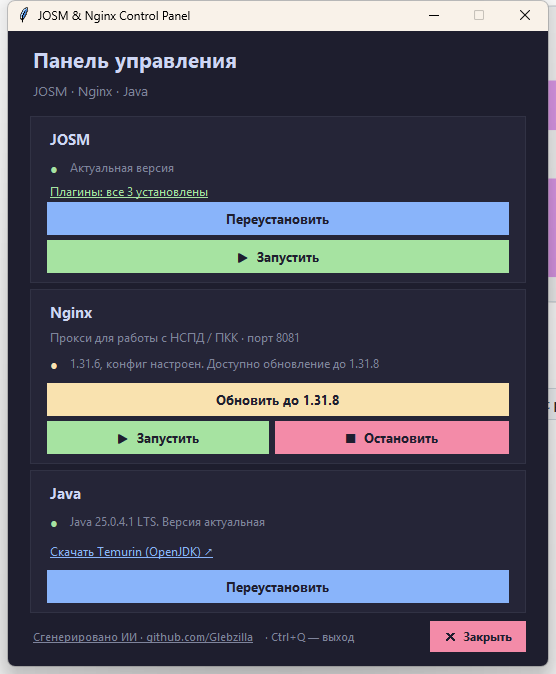
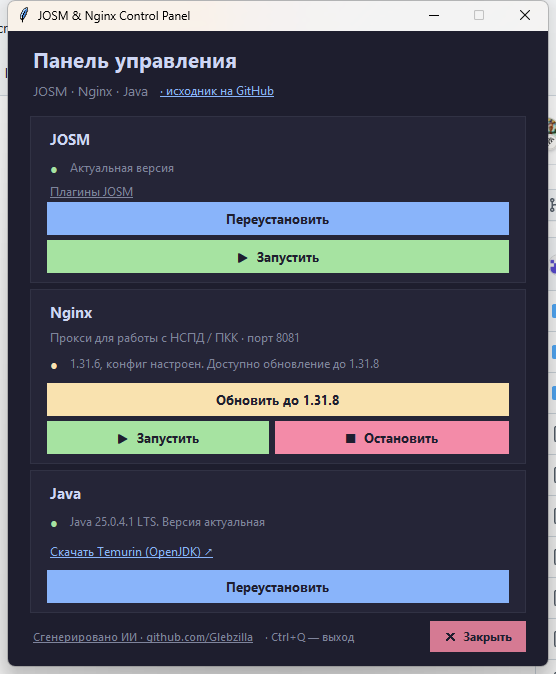
Clarify plugin descriptions, add source links, neutral plugin line

diff --git a/README.md b/README.md
@@ -17,13 +17,25 @@ Nginx-прокси на порту **8081**. Панель:
 - запускает и останавливает Nginx;
 - проверяет **Java (Temurin)**, сравнивает с актуальной версией и при
   необходимости ставит обновление;
-- проверяет **плагины JOSM** и ставит недостающие:
-  - **Russia Address Helper** — адреса из ЕГРН, нужен для НСПД / ПКК;
-  - **UtilsPlugin2** — обязательные утилиты (без него не работает Address Helper);
-  - **FilletTools** — скругление углов и сглаживание линий.
+- проверяет **плагины JOSM** и при необходимости ставит их:
+  - **Russia Address Helper** — загрузка адресов из ЕГРН; нужен для работы
+    с НСПД / ПКК;
+  - **UtilsPlugin2** — набор утилит для редактирования;
+  - **FilletTools** — скругление углов и фаски.
 
-Без плагина Address Helper Nginx-прокси сам по себе не нужен — они
-нужны вместе.
+Обязателен только Address Helper: без него локальный Nginx-прокси на 8081
+не нужен. Остальные два — по желанию, панель просто помогает их поставить.
+
+## Плагины и их источники
+
+| Плагин | Источник | Что делает |
+|---|---|---|
+| Russia Address Helper | [github.com/micronull/JOSM-Russia-address-helper-plugin](https://github.com/micronull/JOSM-Russia-address-helper-plugin) | адреса из ЕГРН, работа с НСПД / ПКК |
+| UtilsPlugin2 | [josm.openstreetmap.de · UtilsPlugin2](https://josm.openstreetmap.de/wiki/Help/Plugin/UtilsPlugin2) | копирование, выравнивание, замена геометрии |
+| FilletTools | [gitlab.com/darkonus/josm-fillet-tools](https://gitlab.com/darkonus/josm-fillet-tools) | скругление углов (fillet) и фаски |
+
+Панель скачивает jar-файлы из этих источников в `%APPDATA%\JOSM\plugins`.
+Ссылки в окне «Плагины JOSM» кликабельны.
 
 ## Быстрый старт
 
